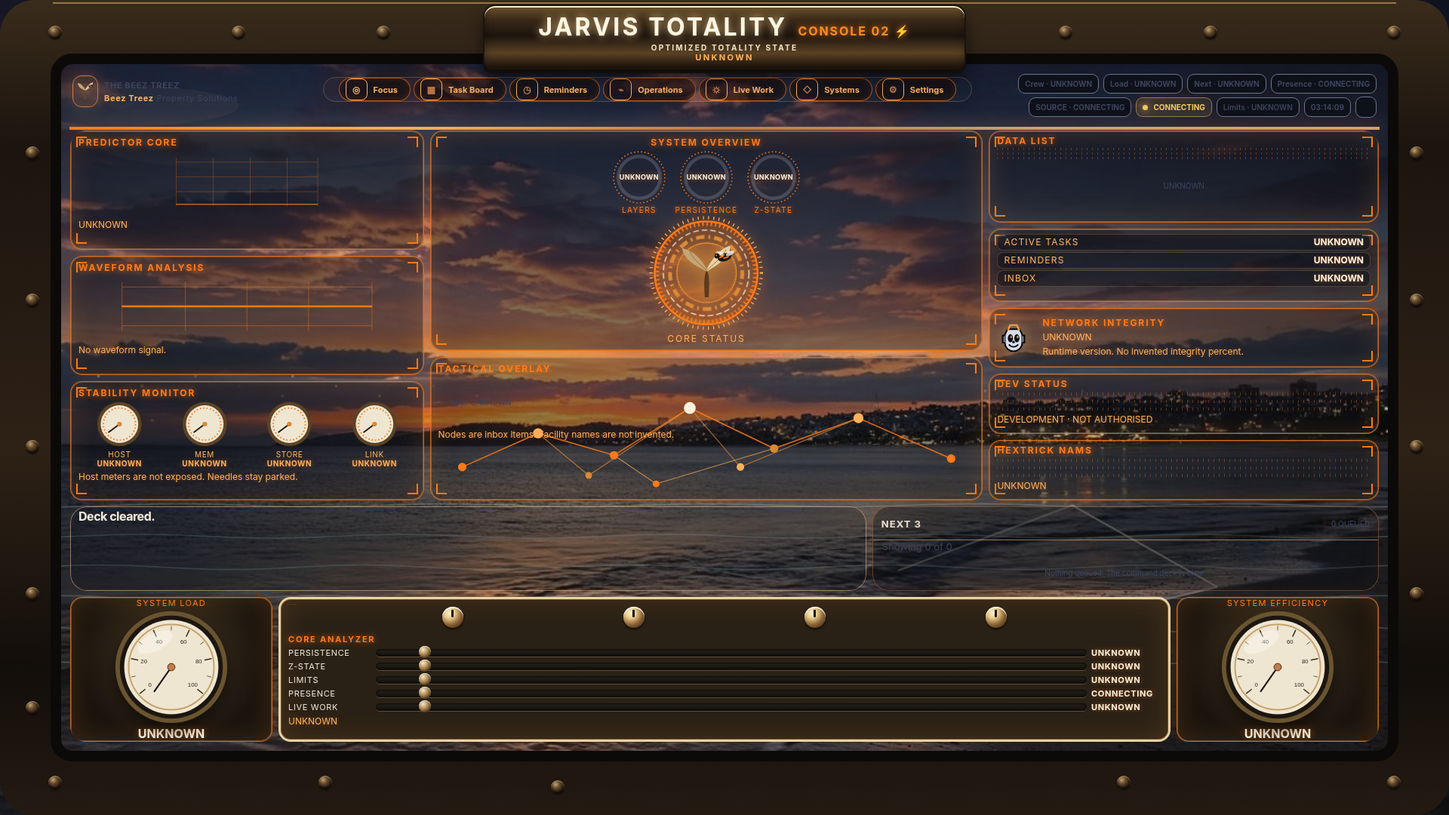
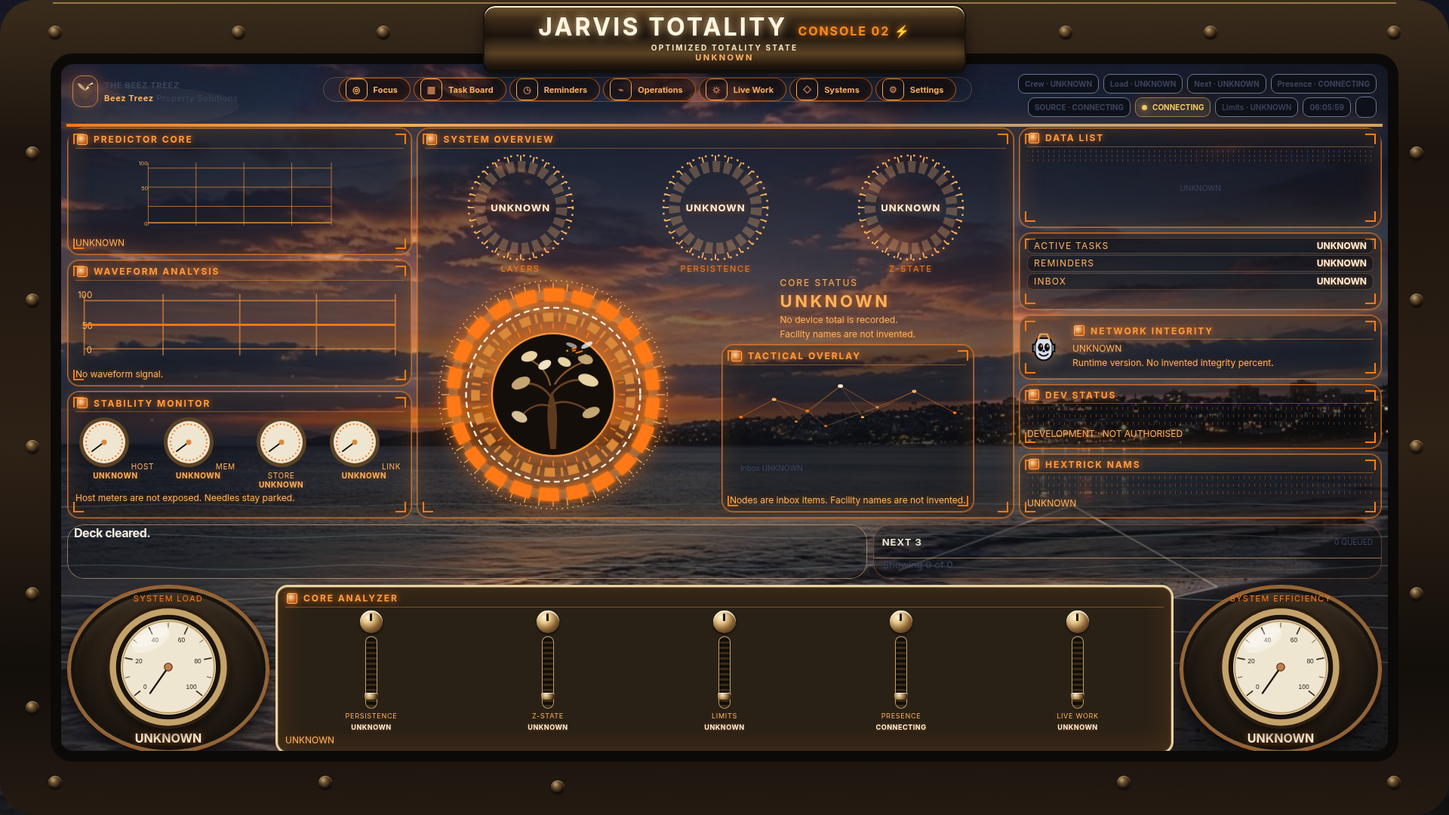
feat(hud): enlarge the Console 02 medallion and analyzer
Make the bee-and-tree core about 312px with thick segmented rings, double the overview dials, and turn the Core Analyzer into five parked vertical channels. Readings stay UNKNOWN. The bronze bezel and 1920 labels stay clear.

Changed region(s): [[0.0312, 0.1222, 0.9688, 0.9472]]

diff --git a/typescript/src/mcp/dashboard-v1.html b/typescript/src/mcp/dashboard-v1.html
@@ -857,6 +857,71 @@
         .tac-chart { top: 22px; bottom: 28px; left: 8px; right: 8px; }
         .tac-plate > p { margin: 0; }
       }
+
+      @media (min-width: 1400px) {
+        .shell { padding: 164px 88px 80px; }
+        .console-deck {
+          grid-template-areas: "left center right";
+          grid-template-columns: minmax(210px, 0.78fr) minmax(0, 1.35fr) minmax(250px, 0.82fr);
+          grid-template-rows: minmax(0, 1fr);
+          gap: 6px;
+        }
+        .core-row { min-height: 0; align-items: stretch; }
+        .core-side { min-width: 0; min-height: 0; height: 100%; max-height: 100%; display: flex; flex-direction: column; gap: 6px; overflow: hidden; }
+        .core-readout { flex: 0 0 auto; }
+        .core-side .tac-plate { position: relative; flex: 1 1 0; min-height: 0; overflow: hidden; display: flex; flex-direction: column; }
+        .core-side .tac-chart { position: relative; inset: auto; width: 100%; flex: 1 1 0; height: 120px; min-height: 0; }
+        .console-col { gap: 6px; }
+        .overview-plate { display: flex; flex-direction: column; align-items: stretch; justify-content: flex-start; height: 100%; overflow: hidden; }
+        .overview-row { flex: 0 0 auto; width: 100%; margin: 0 0 4px; }
+        .ring-gauge svg { width: 148px; height: 148px; }
+        .ring-gauge b { font-size: 13px; letter-spacing: 0.08em; }
+        .ring-gauge span { font-size: 11px; letter-spacing: 0.16em; }
+        .core-row { flex: 1 1 auto; min-height: 0; display: grid; grid-template-columns: minmax(240px, 340px) minmax(140px, 1fr); gap: 10px; align-items: center; justify-items: center; }
+        .core-stage { width: min(312px, 100%); height: auto; aspect-ratio: 1; max-height: 100%; max-width: 100%; }
+        .core-rings { position: absolute; inset: 0; width: 100%; height: 100%; filter: drop-shadow(0 0 16px rgba(255, 122, 24, 0.75)); }
+        .core-emblem { position: static; width: auto; height: auto; filter: none; }
+        .core-readout { align-self: center; display: grid; gap: 4px; min-width: 0; }
+        .core-readout b { font-size: 22px; letter-spacing: 0.16em; color: #ffb15a; text-shadow: 0 0 12px rgba(255, 122, 24, 0.75); }
+        .core-readout p { margin: 0; }
+        .plate h2, .plate h3 {
+          display: flex; align-items: center; gap: 8px;
+          margin: 0 0 4px; padding: 0 2px 4px;
+          border-bottom: 1px solid rgba(255, 154, 60, 0.4);
+          font-family: Inter, "Liberation Sans", sans-serif;
+          font-stretch: 85%; font-weight: 700; font-variant: normal;
+          font-size: 12px; line-height: 1.1; letter-spacing: 0.16em;
+          text-transform: uppercase; color: #ff9a3c;
+          text-shadow: 0 0 10px rgba(255, 122, 24, 0.9);
+        }
+        .plate h2::before, .analyzer-plate h3::before {
+          content: ""; width: 12px; height: 12px; flex: 0 0 12px;
+          border: 1px solid #ffb15a; border-radius: 2px;
+          background: radial-gradient(circle at 35% 35%, #ffd7a0, #c45a12 70%);
+          box-shadow: 0 0 8px rgba(255, 122, 24, 0.8);
+        }
+        .col-left .plate { display: flex; flex-direction: column; }
+        .col-left .chart { flex: 1 1 auto; width: 100%; height: auto; min-height: 72px; max-height: none; }
+        .dial svg { width: min(72px, 100%); height: auto; }
+        .now-strip, .now-strip .mission-panel, .now-strip .queue-panel { max-height: 72px; }
+        .focus-layout .mission-core { padding: 2px 8px; }
+        .gauge-face {
+          border-radius: 50%;
+          background: radial-gradient(circle at 50% 42%, #5a4630, #120e0a 74%);
+          box-shadow: inset 0 0 0 4px #8a6840, inset 0 0 0 9px #1a120c, inset 0 14px 18px rgba(255, 230, 190, 0.12), 0 12px 16px rgba(0, 0, 0, 0.5);
+        }
+        .gauge-face svg { width: min(168px, 100%); filter: drop-shadow(0 8px 8px rgba(0, 0, 0, 0.6)); }
+        .analyzer-plate { display: flex; flex-direction: column; min-height: 0; }
+        .analyzer { display: grid; grid-template-columns: repeat(5, minmax(0, 1fr)); gap: 6px; align-items: stretch; flex: 1 1 auto; min-height: 0; }
+        .analyzer-row { display: flex; flex-direction: column; align-items: center; justify-content: flex-start; gap: 4px; min-width: 0; }
+        .analyzer-row .knob { width: 30px; height: 30px; }
+        .analyzer-row .knob::after { left: 13px; top: 4px; height: 10px; }
+        .analyzer-row b { font-size: 9px; letter-spacing: 0.06em; text-align: center; }
+        .analyzer-row span { font-size: 9px; letter-spacing: 0.08em; text-align: center; color: #ffb15a; }
+        .analyzer-row .slider { width: 16px; flex: 1 1 auto; height: 96px; min-height: 90px; border-radius: 99px; background: repeating-linear-gradient(#3a2c18, #3a2c18 3px, #120e0a 3px, #120e0a 7px); box-shadow: inset 0 0 0 1px #c4a36a, inset 0 2px 4px rgba(0,0,0,0.7); }
+        .analyzer-row .slider::after { left: 50%; top: auto; bottom: 12%; width: 18px; height: 9px; border-radius: 3px; transform: translateX(-50%); }
+        .tac-chart { top: 28px; bottom: 26px; }
+      }
     </style>
   </head>
   <body data-backdrop-severity="UNKNOWN" data-console-view="focus"><!-- JARVIS // OPERATOR CONSOLE · LANDSCAPE COMMAND CENTRE -->
@@ -971,12 +1036,12 @@
                   <div class="console-col col-left">
                     <section class="plate">
                       <h2>PREDICTOR CORE</h2>
-                      <svg class="chart" viewBox="0 0 300 120" role="img" aria-label="Predictor Core"><g class="chart-grid" stroke="rgba(255,122,24,0.4)" stroke-width="1" fill="none"><path d="M16 24 H284 M16 52 H284 M16 80 H284 M16 104 H284"/><path d="M16 16 V108 M86 16 V108 M156 16 V108 M226 16 V108 M284 16 V108"/></g><path d="M16 104 H284" stroke="#d98938" stroke-width="1.6" fill="none"/><polyline id="predictor-line" points="" fill="none" stroke="#ff7a18" stroke-width="2.4"/></svg>
+                      <svg class="chart" viewBox="0 0 300 120" role="img" aria-label="Predictor Core"><g class="chart-grid" stroke="rgba(255,154,60,0.62)" stroke-width="1.15" fill="none"><path d="M16 24 H284 M16 52 H284 M16 80 H284 M16 104 H284"/><path d="M16 16 V108 M86 16 V108 M156 16 V108 M226 16 V108 M284 16 V108"/></g><g fill="#ffb15a" font-size="8" font-family="Inter,sans-serif"><text x="2" y="20">100</text><text x="6" y="56">50</text><text x="10" y="108">0</text></g><path d="M16 104 H284" stroke="#d98938" stroke-width="1.6" fill="none"/><polyline id="predictor-line" points="" fill="none" stroke="#ff7a18" stroke-width="2.4"/></svg>
                       <p id="predictor-state">UNKNOWN</p>
                     </section>
                     <section class="plate">
                       <h2>WAVEFORM ANALYSIS</h2>
-                      <svg class="chart" viewBox="0 0 300 72" aria-hidden="true"><g class="chart-grid" stroke="rgba(255,122,24,0.35)" stroke-width="1" fill="none"><path d="M8 14 H292 M8 36 H292 M8 58 H292"/><path d="M8 8 V64 M80 8 V64 M150 8 V64 M220 8 V64 M292 8 V64"/></g><path d="M8 36 H292" stroke="#ff7a18" fill="none" stroke-width="2"/></svg>
+                      <svg class="chart" viewBox="0 0 300 72" aria-hidden="true"><g class="chart-grid" stroke="rgba(255,154,60,0.62)" stroke-width="1.15" fill="none"><path d="M8 14 H292 M8 36 H292 M8 58 H292"/><path d="M8 8 V64 M80 8 V64 M150 8 V64 M220 8 V64 M292 8 V64"/></g><g fill="#ffb15a" font-size="8" font-family="Inter,sans-serif"><text x="2" y="12">100</text><text x="6" y="40">50</text><text x="10" y="62">0</text></g><path d="M8 36 H292" stroke="#ff7a18" fill="none" stroke-width="2"/></svg>
                       <p id="waveform-state">No waveform signal.</p>
                     </section>
                     <section class="plate">
@@ -994,34 +1059,63 @@
                     <section class="plate overview-plate">
                       <h2>SYSTEM OVERVIEW</h2>
                       <div class="overview-row">
-                        <div class="ring-gauge"><svg viewBox="0 0 96 96" aria-hidden="true"><circle cx="48" cy="48" r="44" fill="none" stroke="#ff7a18" stroke-width="2" stroke-dasharray="2 4"/><circle cx="48" cy="48" r="36" fill="none" stroke="rgba(255,255,255,0.16)" stroke-width="6"/><circle id="ring-layers-arc" cx="48" cy="48" r="36" fill="none" stroke="#ff7a18" stroke-width="6" pathLength="100" stroke-dasharray="0 100" transform="rotate(-90 48 48)"/></svg><b id="ring-layers">UNKNOWN</b><span>LAYERS</span></div>
-                        <div class="ring-gauge"><svg viewBox="0 0 96 96" aria-hidden="true"><circle cx="48" cy="48" r="44" fill="none" stroke="#ff7a18" stroke-width="2" stroke-dasharray="2 4"/><circle cx="48" cy="48" r="36" fill="none" stroke="rgba(255,255,255,0.16)" stroke-width="6"/></svg><b id="ring-persistence">UNKNOWN</b><span>PERSISTENCE</span></div>
-                        <div class="ring-gauge"><svg viewBox="0 0 96 96" aria-hidden="true"><circle cx="48" cy="48" r="44" fill="none" stroke="#ff7a18" stroke-width="2" stroke-dasharray="2 4"/><circle cx="48" cy="48" r="36" fill="none" stroke="rgba(255,255,255,0.16)" stroke-width="6"/></svg><b id="ring-z">UNKNOWN</b><span>Z-STATE</span></div>
+                        <div class="ring-gauge"><svg viewBox="0 0 120 120" aria-hidden="true"><circle cx="60" cy="60" r="56" fill="none" stroke="#ffb15a" stroke-width="2" stroke-dasharray="2 5"/><line x1="60.0" y1="10.0" x2="60.0" y2="4.0" stroke="#ffb15a" stroke-width="1.4"/><line x1="72.9" y1="11.7" x2="74.5" y2="5.9" stroke="#ffb15a" stroke-width="1.4"/><line x1="85.0" y1="16.7" x2="88.0" y2="11.5" stroke="#ffb15a" stroke-width="1.4"/><line x1="95.4" y1="24.6" x2="99.6" y2="20.4" stroke="#ffb15a" stroke-width="1.4"/><line x1="103.3" y1="35.0" x2="108.5" y2="32.0" stroke="#ffb15a" stroke-width="1.4"/><line x1="108.3" y1="47.1" x2="114.1" y2="45.5" stroke="#ffb15a" stroke-width="1.4"/><line x1="110.0" y1="60.0" x2="116.0" y2="60.0" stroke="#ffb15a" stroke-width="1.4"/><line x1="108.3" y1="72.9" x2="114.1" y2="74.5" stroke="#ffb15a" stroke-width="1.4"/><line x1="103.3" y1="85.0" x2="108.5" y2="88.0" stroke="#ffb15a" stroke-width="1.4"/><line x1="95.4" y1="95.4" x2="99.6" y2="99.6" stroke="#ffb15a" stroke-width="1.4"/><line x1="85.0" y1="103.3" x2="88.0" y2="108.5" stroke="#ffb15a" stroke-width="1.4"/><line x1="72.9" y1="108.3" x2="74.5" y2="114.1" stroke="#ffb15a" stroke-width="1.4"/><line x1="60.0" y1="110.0" x2="60.0" y2="116.0" stroke="#ffb15a" stroke-width="1.4"/><line x1="47.1" y1="108.3" x2="45.5" y2="114.1" stroke="#ffb15a" stroke-width="1.4"/><line x1="35.0" y1="103.3" x2="32.0" y2="108.5" stroke="#ffb15a" stroke-width="1.4"/><line x1="24.6" y1="95.4" x2="20.4" y2="99.6" stroke="#ffb15a" stroke-width="1.4"/><line x1="16.7" y1="85.0" x2="11.5" y2="88.0" stroke="#ffb15a" stroke-width="1.4"/><line x1="11.7" y1="72.9" x2="5.9" y2="74.5" stroke="#ffb15a" stroke-width="1.4"/><line x1="10.0" y1="60.0" x2="4.0" y2="60.0" stroke="#ffb15a" stroke-width="1.4"/><line x1="11.7" y1="47.1" x2="5.9" y2="45.5" stroke="#ffb15a" stroke-width="1.4"/><line x1="16.7" y1="35.0" x2="11.5" y2="32.0" stroke="#ffb15a" stroke-width="1.4"/><line x1="24.6" y1="24.6" x2="20.4" y2="20.4" stroke="#ffb15a" stroke-width="1.4"/><line x1="35.0" y1="16.7" x2="32.0" y2="11.5" stroke="#ffb15a" stroke-width="1.4"/><line x1="47.1" y1="11.7" x2="45.5" y2="5.9" stroke="#ffb15a" stroke-width="1.4"/><circle cx="60" cy="60" r="44" fill="none" stroke="rgba(255,186,120,0.28)" stroke-width="12" stroke-dasharray="8 4"/><circle id="ring-layers-arc" cx="60" cy="60" r="44" fill="none" stroke="#ff7a18" stroke-width="12" pathLength="100" stroke-dasharray="0 100" transform="rotate(-90 60 60)"/></svg><b id="ring-layers">UNKNOWN</b><span>LAYERS</span></div>
+                        <div class="ring-gauge"><svg viewBox="0 0 120 120" aria-hidden="true"><circle cx="60" cy="60" r="56" fill="none" stroke="#ffb15a" stroke-width="2" stroke-dasharray="2 5"/><line x1="60.0" y1="10.0" x2="60.0" y2="4.0" stroke="#ffb15a" stroke-width="1.4"/><line x1="72.9" y1="11.7" x2="74.5" y2="5.9" stroke="#ffb15a" stroke-width="1.4"/><line x1="85.0" y1="16.7" x2="88.0" y2="11.5" stroke="#ffb15a" stroke-width="1.4"/><line x1="95.4" y1="24.6" x2="99.6" y2="20.4" stroke="#ffb15a" stroke-width="1.4"/><line x1="103.3" y1="35.0" x2="108.5" y2="32.0" stroke="#ffb15a" stroke-width="1.4"/><line x1="108.3" y1="47.1" x2="114.1" y2="45.5" stroke="#ffb15a" stroke-width="1.4"/><line x1="110.0" y1="60.0" x2="116.0" y2="60.0" stroke="#ffb15a" stroke-width="1.4"/><line x1="108.3" y1="72.9" x2="114.1" y2="74.5" stroke="#ffb15a" stroke-width="1.4"/><line x1="103.3" y1="85.0" x2="108.5" y2="88.0" stroke="#ffb15a" stroke-width="1.4"/><line x1="95.4" y1="95.4" x2="99.6" y2="99.6" stroke="#ffb15a" stroke-width="1.4"/><line x1="85.0" y1="103.3" x2="88.0" y2="108.5" stroke="#ffb15a" stroke-width="1.4"/><line x1="72.9" y1="108.3" x2="74.5" y2="114.1" stroke="#ffb15a" stroke-width="1.4"/><line x1="60.0" y1="110.0" x2="60.0" y2="116.0" stroke="#ffb15a" stroke-width="1.4"/><line x1="47.1" y1="108.3" x2="45.5" y2="114.1" stroke="#ffb15a" stroke-width="1.4"/><line x1="35.0" y1="103.3" x2="32.0" y2="108.5" stroke="#ffb15a" stroke-width="1.4"/><line x1="24.6" y1="95.4" x2="20.4" y2="99.6" stroke="#ffb15a" stroke-width="1.4"/><line x1="16.7" y1="85.0" x2="11.5" y2="88.0" stroke="#ffb15a" stroke-width="1.4"/><line x1="11.7" y1="72.9" x2="5.9" y2="74.5" stroke="#ffb15a" stroke-width="1.4"/><line x1="10.0" y1="60.0" x2="4.0" y2="60.0" stroke="#ffb15a" stroke-width="1.4"/><line x1="11.7" y1="47.1" x2="5.9" y2="45.5" stroke="#ffb15a" stroke-width="1.4"/><line x1="16.7" y1="35.0" x2="11.5" y2="32.0" stroke="#ffb15a" stroke-width="1.4"/><line x1="24.6" y1="24.6" x2="20.4" y2="20.4" stroke="#ffb15a" stroke-width="1.4"/><line x1="35.0" y1="16.7" x2="32.0" y2="11.5" stroke="#ffb15a" stroke-width="1.4"/><line x1="47.1" y1="11.7" x2="45.5" y2="5.9" stroke="#ffb15a" stroke-width="1.4"/><circle cx="60" cy="60" r="44" fill="none" stroke="rgba(255,186,120,0.28)" stroke-width="12" stroke-dasharray="8 4"/></svg><b id="ring-persistence">UNKNOWN</b><span>PERSISTENCE</span></div>
+                        <div class="ring-gauge"><svg viewBox="0 0 120 120" aria-hidden="true"><circle cx="60" cy="60" r="56" fill="none" stroke="#ffb15a" stroke-width="2" stroke-dasharray="2 5"/><line x1="60.0" y1="10.0" x2="60.0" y2="4.0" stroke="#ffb15a" stroke-width="1.4"/><line x1="72.9" y1="11.7" x2="74.5" y2="5.9" stroke="#ffb15a" stroke-width="1.4"/><line x1="85.0" y1="16.7" x2="88.0" y2="11.5" stroke="#ffb15a" stroke-width="1.4"/><line x1="95.4" y1="24.6" x2="99.6" y2="20.4" stroke="#ffb15a" stroke-width="1.4"/><line x1="103.3" y1="35.0" x2="108.5" y2="32.0" stroke="#ffb15a" stroke-width="1.4"/><line x1="108.3" y1="47.1" x2="114.1" y2="45.5" stroke="#ffb15a" stroke-width="1.4"/><line x1="110.0" y1="60.0" x2="116.0" y2="60.0" stroke="#ffb15a" stroke-width="1.4"/><line x1="108.3" y1="72.9" x2="114.1" y2="74.5" stroke="#ffb15a" stroke-width="1.4"/><line x1="103.3" y1="85.0" x2="108.5" y2="88.0" stroke="#ffb15a" stroke-width="1.4"/><line x1="95.4" y1="95.4" x2="99.6" y2="99.6" stroke="#ffb15a" stroke-width="1.4"/><line x1="85.0" y1="103.3" x2="88.0" y2="108.5" stroke="#ffb15a" stroke-width="1.4"/><line x1="72.9" y1="108.3" x2="74.5" y2="114.1" stroke="#ffb15a" stroke-width="1.4"/><line x1="60.0" y1="110.0" x2="60.0" y2="116.0" stroke="#ffb15a" stroke-width="1.4"/><line x1="47.1" y1="108.3" x2="45.5" y2="114.1" stroke="#ffb15a" stroke-width="1.4"/><line x1="35.0" y1="103.3" x2="32.0" y2="108.5" stroke="#ffb15a" stroke-width="1.4"/><line x1="24.6" y1="95.4" x2="20.4" y2="99.6" stroke="#ffb15a" stroke-width="1.4"/><line x1="16.7" y1="85.0" x2="11.5" y2="88.0" stroke="#ffb15a" stroke-width="1.4"/><line x1="11.7" y1="72.9" x2="5.9" y2="74.5" stroke="#ffb15a" stroke-width="1.4"/><line x1="10.0" y1="60.0" x2="4.0" y2="60.0" stroke="#ffb15a" stroke-width="1.4"/><line x1="11.7" y1="47.1" x2="5.9" y2="45.5" stroke="#ffb15a" stroke-width="1.4"/><line x1="16.7" y1="35.0" x2="11.5" y2="32.0" stroke="#ffb15a" stroke-width="1.4"/><line x1="24.6" y1="24.6" x2="20.4" y2="20.4" stroke="#ffb15a" stroke-width="1.4"/><line x1="35.0" y1="16.7" x2="32.0" y2="11.5" stroke="#ffb15a" stroke-width="1.4"/><line x1="47.1" y1="11.7" x2="45.5" y2="5.9" stroke="#ffb15a" stroke-width="1.4"/><circle cx="60" cy="60" r="44" fill="none" stroke="rgba(255,186,120,0.28)" stroke-width="12" stroke-dasharray="8 4"/></svg><b id="ring-z">UNKNOWN</b><span>Z-STATE</span></div>
                       </div>
-                      <div class="core-stage">
-                        <svg class="core-rings" viewBox="0 0 240 240" aria-hidden="true">
-                          <circle cx="120" cy="120" r="116" fill="none" stroke="#ffb15a" stroke-width="7" stroke-dasharray="2 9"/><circle cx="120" cy="120" r="108" fill="rgba(255,122,24,0.14)" stroke="#ff7a18" stroke-width="4"/>
-                          <circle class="spin" cx="120" cy="120" r="104" fill="none" stroke="#ff7a18" stroke-width="10" stroke-dasharray="3 6"/>
-                          <circle cx="120" cy="120" r="90" fill="none" stroke="#fff6e4" stroke-width="2" stroke-dasharray="12 6"/>
-                          <circle class="spin reverse" cx="120" cy="120" r="76" fill="none" stroke="#d98938" stroke-width="8" stroke-dasharray="18 8 4 8"/>
-                          <circle cx="120" cy="120" r="62" fill="none" stroke="#ff7a18" stroke-width="3" stroke-dasharray="2 4"/>
-                        </svg>
-                        <svg class="core-emblem" viewBox="0 0 120 120" aria-hidden="true">
-                          <circle cx="60" cy="60" r="46" fill="rgba(255,140,40,0.16)" stroke="#d98938" stroke-width="1.5"/>
-                          <path d="M57 98 C56 78 55 68 60 54 C65 68 64 78 63 98 Z" fill="#5c3a1e"/>
-                          <path d="M60 58 C44 50 24 40 22 22 C40 26 52 40 60 54 Z" fill="#c4a574"/>
-                          <path d="M60 58 C76 48 98 36 96 18 C78 24 68 40 60 54 Z" fill="#e7d3a4"/>
-                          <path d="M60 56 C48 46 36 36 34 26" fill="none" stroke="#8a6840" stroke-width="1"/>
-                          <path d="M60 56 C74 44 86 34 90 24" fill="none" stroke="#8a6840" stroke-width="1"/>
-                          <ellipse cx="88" cy="36" rx="11" ry="6" fill="#1a140e" transform="rotate(-18 88 36)"/>
-                          <path d="M80 34 h6 M86 37 h7 M83 32 h5" stroke="#ff7a18" stroke-width="2" stroke-linecap="round" transform="rotate(-18 88 36)"/>
-                          <ellipse cx="96" cy="30" rx="7" ry="3.2" fill="rgba(255,255,255,0.72)" transform="rotate(-30 96 30)"/>
-                          <ellipse cx="80" cy="30" rx="6" ry="2.8" fill="rgba(255,255,255,0.55)" transform="rotate(20 80 30)"/>
-                          <circle cx="76" cy="34" r="4" fill="#1a140e"/>
-                          <circle cx="75" cy="33" r="1" fill="#ffb15a"/>
-                        </svg>
+                      <div class="core-row">
+                        <div class="core-stage">
+                        <svg class="core-rings" viewBox="0 0 400 400" aria-hidden="true">
+  <defs><filter id="core-glow" x="-30%" y="-30%" width="160%" height="160%"><feGaussianBlur stdDeviation="4" result="b"/><feMerge><feMergeNode in="b"/><feMergeNode in="SourceGraphic"/></feMerge></filter></defs>
+  <circle cx="200" cy="200" r="168" fill="rgba(255,122,24,0.08)"/>
+  <circle cx="200" cy="200" r="194" fill="none" stroke="#ffb15a" stroke-width="2" stroke-dasharray="2 7"/>
+  <line x1="200.0" y1="24.0" x2="200.0" y2="10.0" stroke="#ffb15a" stroke-width="1.6"/><line x1="223.0" y1="25.5" x2="224.8" y2="11.6" stroke="#ffb15a" stroke-width="1.6"/><line x1="245.6" y1="30.0" x2="249.2" y2="16.5" stroke="#ffb15a" stroke-width="1.6"/><line x1="267.4" y1="37.4" x2="272.7" y2="24.5" stroke="#ffb15a" stroke-width="1.6"/><line x1="288.0" y1="47.6" x2="295.0" y2="35.5" stroke="#ffb15a" stroke-width="1.6"/><line x1="307.1" y1="60.4" x2="315.7" y2="49.3" stroke="#ffb15a" stroke-width="1.6"/><line x1="324.5" y1="75.5" x2="334.4" y2="65.6" stroke="#ffb15a" stroke-width="1.6"/><line x1="339.6" y1="92.9" x2="350.7" y2="84.3" stroke="#ffb15a" stroke-width="1.6"/><line x1="352.4" y1="112.0" x2="364.5" y2="105.0" stroke="#ffb15a" stroke-width="1.6"/><line x1="362.6" y1="132.6" x2="375.5" y2="127.3" stroke="#ffb15a" stroke-width="1.6"/><line x1="370.0" y1="154.4" x2="383.5" y2="150.8" stroke="#ffb15a" stroke-width="1.6"/><line x1="374.5" y1="177.0" x2="388.4" y2="175.2" stroke="#ffb15a" stroke-width="1.6"/><line x1="376.0" y1="200.0" x2="390.0" y2="200.0" stroke="#ffb15a" stroke-width="1.6"/><line x1="374.5" y1="223.0" x2="388.4" y2="224.8" stroke="#ffb15a" stroke-width="1.6"/><line x1="370.0" y1="245.6" x2="383.5" y2="249.2" stroke="#ffb15a" stroke-width="1.6"/><line x1="362.6" y1="267.4" x2="375.5" y2="272.7" stroke="#ffb15a" stroke-width="1.6"/><line x1="352.4" y1="288.0" x2="364.5" y2="295.0" stroke="#ffb15a" stroke-width="1.6"/><line x1="339.6" y1="307.1" x2="350.7" y2="315.7" stroke="#ffb15a" stroke-width="1.6"/><line x1="324.5" y1="324.5" x2="334.4" y2="334.4" stroke="#ffb15a" stroke-width="1.6"/><line x1="307.1" y1="339.6" x2="315.7" y2="350.7" stroke="#ffb15a" stroke-width="1.6"/><line x1="288.0" y1="352.4" x2="295.0" y2="364.5" stroke="#ffb15a" stroke-width="1.6"/><line x1="267.4" y1="362.6" x2="272.7" y2="375.5" stroke="#ffb15a" stroke-width="1.6"/><line x1="245.6" y1="370.0" x2="249.2" y2="383.5" stroke="#ffb15a" stroke-width="1.6"/><line x1="223.0" y1="374.5" x2="224.8" y2="388.4" stroke="#ffb15a" stroke-width="1.6"/><line x1="200.0" y1="376.0" x2="200.0" y2="390.0" stroke="#ffb15a" stroke-width="1.6"/><line x1="177.0" y1="374.5" x2="175.2" y2="388.4" stroke="#ffb15a" stroke-width="1.6"/><line x1="154.4" y1="370.0" x2="150.8" y2="383.5" stroke="#ffb15a" stroke-width="1.6"/><line x1="132.6" y1="362.6" x2="127.3" y2="375.5" stroke="#ffb15a" stroke-width="1.6"/><line x1="112.0" y1="352.4" x2="105.0" y2="364.5" stroke="#ffb15a" stroke-width="1.6"/><line x1="92.9" y1="339.6" x2="84.3" y2="350.7" stroke="#ffb15a" stroke-width="1.6"/><line x1="75.5" y1="324.5" x2="65.6" y2="334.4" stroke="#ffb15a" stroke-width="1.6"/><line x1="60.4" y1="307.1" x2="49.3" y2="315.7" stroke="#ffb15a" stroke-width="1.6"/><line x1="47.6" y1="288.0" x2="35.5" y2="295.0" stroke="#ffb15a" stroke-width="1.6"/><line x1="37.4" y1="267.4" x2="24.5" y2="272.7" stroke="#ffb15a" stroke-width="1.6"/><line x1="30.0" y1="245.6" x2="16.5" y2="249.2" stroke="#ffb15a" stroke-width="1.6"/><line x1="25.5" y1="223.0" x2="11.6" y2="224.8" stroke="#ffb15a" stroke-width="1.6"/><line x1="24.0" y1="200.0" x2="10.0" y2="200.0" stroke="#ffb15a" stroke-width="1.6"/><line x1="25.5" y1="177.0" x2="11.6" y2="175.2" stroke="#ffb15a" stroke-width="1.6"/><line x1="30.0" y1="154.4" x2="16.5" y2="150.8" stroke="#ffb15a" stroke-width="1.6"/><line x1="37.4" y1="132.6" x2="24.5" y2="127.3" stroke="#ffb15a" stroke-width="1.6"/><line x1="47.6" y1="112.0" x2="35.5" y2="105.0" stroke="#ffb15a" stroke-width="1.6"/><line x1="60.4" y1="92.9" x2="49.3" y2="84.3" stroke="#ffb15a" stroke-width="1.6"/><line x1="75.5" y1="75.5" x2="65.6" y2="65.6" stroke="#ffb15a" stroke-width="1.6"/><line x1="92.9" y1="60.4" x2="84.3" y2="49.3" stroke="#ffb15a" stroke-width="1.6"/><line x1="112.0" y1="47.6" x2="105.0" y2="35.5" stroke="#ffb15a" stroke-width="1.6"/><line x1="132.6" y1="37.4" x2="127.3" y2="24.5" stroke="#ffb15a" stroke-width="1.6"/><line x1="154.4" y1="30.0" x2="150.8" y2="16.5" stroke="#ffb15a" stroke-width="1.6"/><line x1="177.0" y1="25.5" x2="175.2" y2="11.6" stroke="#ffb15a" stroke-width="1.6"/>
+  <circle cx="200" cy="200" r="170" fill="none" stroke="rgba(255,186,120,0.25)" stroke-width="16"/>
+  <circle class="spin" cx="200" cy="200" r="170" fill="none" stroke="#ff7a18" stroke-width="22" stroke-dasharray="34 14" filter="url(#core-glow)"/>
+  <circle cx="200" cy="200" r="148" fill="none" stroke="#fff1dc" stroke-width="3" stroke-dasharray="10 7"/>
+  <circle class="spin reverse" cx="200" cy="200" r="132" fill="none" stroke="#d98938" stroke-width="15" stroke-dasharray="18 8 4 10"/>
+  <line x1="200.0" y1="88.0" x2="200.0" y2="78.0" stroke="#ff7a18" stroke-width="2"/><line x1="219.4" y1="89.7" x2="221.2" y2="79.9" stroke="#ff7a18" stroke-width="2"/><line x1="238.3" y1="94.8" x2="241.7" y2="85.4" stroke="#ff7a18" stroke-width="2"/><line x1="256.0" y1="103.0" x2="261.0" y2="94.3" stroke="#ff7a18" stroke-width="2"/><line x1="272.0" y1="114.2" x2="278.4" y2="106.5" stroke="#ff7a18" stroke-width="2"/><line x1="285.8" y1="128.0" x2="293.5" y2="121.6" stroke="#ff7a18" stroke-width="2"/><line x1="297.0" y1="144.0" x2="305.7" y2="139.0" stroke="#ff7a18" stroke-width="2"/><line x1="305.2" y1="161.7" x2="314.6" y2="158.3" stroke="#ff7a18" stroke-width="2"/><line x1="310.3" y1="180.6" x2="320.1" y2="178.8" stroke="#ff7a18" stroke-width="2"/><line x1="312.0" y1="200.0" x2="322.0" y2="200.0" stroke="#ff7a18" stroke-width="2"/><line x1="310.3" y1="219.4" x2="320.1" y2="221.2" stroke="#ff7a18" stroke-width="2"/><line x1="305.2" y1="238.3" x2="314.6" y2="241.7" stroke="#ff7a18" stroke-width="2"/><line x1="297.0" y1="256.0" x2="305.7" y2="261.0" stroke="#ff7a18" stroke-width="2"/><line x1="285.8" y1="272.0" x2="293.5" y2="278.4" stroke="#ff7a18" stroke-width="2"/><line x1="272.0" y1="285.8" x2="278.4" y2="293.5" stroke="#ff7a18" stroke-width="2"/><line x1="256.0" y1="297.0" x2="261.0" y2="305.7" stroke="#ff7a18" stroke-width="2"/><line x1="238.3" y1="305.2" x2="241.7" y2="314.6" stroke="#ff7a18" stroke-width="2"/><line x1="219.4" y1="310.3" x2="221.2" y2="320.1" stroke="#ff7a18" stroke-width="2"/><line x1="200.0" y1="312.0" x2="200.0" y2="322.0" stroke="#ff7a18" stroke-width="2"/><line x1="180.6" y1="310.3" x2="178.8" y2="320.1" stroke="#ff7a18" stroke-width="2"/><line x1="161.7" y1="305.2" x2="158.3" y2="314.6" stroke="#ff7a18" stroke-width="2"/><line x1="144.0" y1="297.0" x2="139.0" y2="305.7" stroke="#ff7a18" stroke-width="2"/><line x1="128.0" y1="285.8" x2="121.6" y2="293.5" stroke="#ff7a18" stroke-width="2"/><line x1="114.2" y1="272.0" x2="106.5" y2="278.4" stroke="#ff7a18" stroke-width="2"/><line x1="103.0" y1="256.0" x2="94.3" y2="261.0" stroke="#ff7a18" stroke-width="2"/><line x1="94.8" y1="238.3" x2="85.4" y2="241.7" stroke="#ff7a18" stroke-width="2"/><line x1="89.7" y1="219.4" x2="79.9" y2="221.2" stroke="#ff7a18" stroke-width="2"/><line x1="88.0" y1="200.0" x2="78.0" y2="200.0" stroke="#ff7a18" stroke-width="2"/><line x1="89.7" y1="180.6" x2="79.9" y2="178.8" stroke="#ff7a18" stroke-width="2"/><line x1="94.8" y1="161.7" x2="85.4" y2="158.3" stroke="#ff7a18" stroke-width="2"/><line x1="103.0" y1="144.0" x2="94.3" y2="139.0" stroke="#ff7a18" stroke-width="2"/><line x1="114.2" y1="128.0" x2="106.5" y2="121.6" stroke="#ff7a18" stroke-width="2"/><line x1="128.0" y1="114.2" x2="121.6" y2="106.5" stroke="#ff7a18" stroke-width="2"/><line x1="144.0" y1="103.0" x2="139.0" y2="94.3" stroke="#ff7a18" stroke-width="2"/><line x1="161.7" y1="94.8" x2="158.3" y2="85.4" stroke="#ff7a18" stroke-width="2"/><line x1="180.6" y1="89.7" x2="178.8" y2="79.9" stroke="#ff7a18" stroke-width="2"/>
+  <circle cx="200" cy="200" r="104" fill="#140e0a" stroke="#ff9a3c" stroke-width="3"/>
+  <svg class="core-emblem" x="96" y="92" width="208" height="210" viewBox="0 0 164 176">
+    <path d="M78 168 C74 132 70 108 80 86 C90 108 88 132 86 168 Z" fill="#5c3a1e"/>
+    <path d="M80 96 C70 78 48 70 36 78" fill="none" stroke="#6b4424" stroke-width="3"/>
+    <path d="M80 90 C92 72 118 64 132 74" fill="none" stroke="#6b4424" stroke-width="3"/>
+    <path d="M80 108 C64 100 46 108 34 124" fill="none" stroke="#6b4424" stroke-width="2.5"/>
+    <path d="M82 104 C98 96 122 104 136 118" fill="none" stroke="#6b4424" stroke-width="2.5"/>
+    <path d="M78 78 C74 58 60 46 48 40" fill="none" stroke="#8a5a30" stroke-width="2.4"/>
+    <path d="M84 76 C96 56 118 46 132 42" fill="none" stroke="#8a5a30" stroke-width="2.4"/>
+    <ellipse cx="36" cy="74" rx="14" ry="8" fill="#c4a574" transform="rotate(-24 36 74)"/>
+    <ellipse cx="48" cy="36" rx="12" ry="7" fill="#e7d3a4" transform="rotate(-18 48 36)"/>
+    <ellipse cx="132" cy="70" rx="15" ry="8" fill="#e7d3a4" transform="rotate(20 132 70)"/>
+    <ellipse cx="128" cy="40" rx="11" ry="7" fill="#c4a574" transform="rotate(16 128 40)"/>
+    <ellipse cx="34" cy="122" rx="12" ry="7" fill="#d7c09a" transform="rotate(28 34 122)"/>
+    <ellipse cx="136" cy="116" rx="13" ry="7" fill="#c4a574" transform="rotate(-22 136 116)"/>
+    <ellipse cx="70" cy="48" rx="10" ry="6" fill="#f0e2c4" transform="rotate(-30 70 48)"/>
+    <ellipse cx="98" cy="44" rx="10" ry="6" fill="#e7d3a4" transform="rotate(24 98 44)"/>
+    <ellipse cx="118" cy="28" rx="16" ry="8" fill="#1a140e" transform="rotate(-16 118 28)"/>
+    <path d="M106 26 h8 M114 30 h9 M110 23 h6" stroke="#ff7a18" stroke-width="2" stroke-linecap="round" transform="rotate(-16 118 28)"/>
+    <ellipse cx="130" cy="20" rx="9" ry="3.4" fill="rgba(255,255,255,0.75)" transform="rotate(-28 130 20)"/>
+    <ellipse cx="108" cy="20" rx="8" ry="3" fill="rgba(255,255,255,0.55)" transform="rotate(18 108 20)"/>
+    <circle cx="104" cy="30" r="5.5" fill="#1a140e"/>
+    <circle cx="102" cy="28" r="1.3" fill="#ffb15a"/>
+    <path d="M100 26 q-6 -8 -2 -12" fill="none" stroke="#1a140e" stroke-width="1"/>
+  </svg>
+</svg>
+                        </div>
+                        <div class="core-side">
+                        <div class="core-readout">
+                          <p class="sub-plate core-status-label">CORE STATUS</p>
+                          <b id="core-side-status">UNKNOWN</b>
+                          <p>No device total is recorded.</p>
+                          <p>Facility names are not invented.</p>
+                        </div>
+                        <section class="plate tac-plate">
+                      <h2>TACTICAL OVERLAY</h2>
+                      <svg class="tac-chart" viewBox="0 0 640 280" preserveAspectRatio="none" aria-hidden="true"><path d="M 30 187.0 L 120 119.0 L 210 163.2 L 300 68.0 L 400 149.6 L 500 88.4 L 610 170.0" fill="none" stroke="#ff7a18" stroke-width="1.4" opacity="0.85"/><path d="M 120 119.0 L 180 204.0 L 300 68.0 L 360 187.0 L 500 88.4" fill="none" stroke="#d98938" stroke-width="1.1" opacity="0.7"/><path d="M 210 163.2 L 260 221.0 L 400 149.6" fill="none" stroke="rgba(255,177,90,0.7)" stroke-width="1"/><circle cx="30" cy="187.0" r="5" fill="#ff7a18"/><circle cx="120" cy="119.0" r="6" fill="#ffb15a"/><circle cx="210" cy="163.2" r="5" fill="#ff7a18"/><circle cx="300" cy="68.0" r="7" fill="#fff1dc"/><circle cx="400" cy="149.6" r="5" fill="#d98938"/><circle cx="500" cy="88.4" r="6" fill="#ffb15a"/><circle cx="610" cy="170.0" r="5" fill="#ff7a18"/><circle cx="180" cy="204.0" r="4" fill="#d98938"/><circle cx="260" cy="221.0" r="4" fill="#ff7a18"/><circle cx="360" cy="187.0" r="4.5" fill="#ffb15a"/></svg>
+                      <div class="tac-map" id="tactical-map"></div>
+                      <p>Nodes are inbox items. Facility names are not invented.</p>
+                    </section>
                       </div>
-                      <p class="sub-plate core-status-label">CORE STATUS</p>
                     </section>
                   </div>
                   <div class="console-col col-right">
@@ -1068,12 +1162,7 @@
                     </section>
                   </div>
 
-                    <section class="plate tac-plate col-tac">
-                      <h2>TACTICAL OVERLAY</h2>
-                      <svg class="tac-chart" viewBox="0 0 640 150" preserveAspectRatio="xMidYMid meet" aria-hidden="true"><path d="M30 110 L120 70 L210 96 L300 40 L400 88 L500 52 L610 100" fill="none" stroke="#ff7a18" stroke-width="1.4" opacity="0.85"/><path d="M120 70 L180 120 L300 40 L360 110 L500 52" fill="none" stroke="#d98938" stroke-width="1.1" opacity="0.7"/><path d="M210 96 L260 130 L400 88" fill="none" stroke="rgba(255,177,90,0.7)" stroke-width="1"/><circle cx="30" cy="110" r="5" fill="#ff7a18"/><circle cx="120" cy="70" r="6" fill="#ffb15a"/><circle cx="210" cy="96" r="5" fill="#ff7a18"/><circle cx="300" cy="40" r="7" fill="#fff1dc"/><circle cx="400" cy="88" r="5" fill="#d98938"/><circle cx="500" cy="52" r="6" fill="#ffb15a"/><circle cx="610" cy="100" r="5" fill="#ff7a18"/><circle cx="180" cy="120" r="4" fill="#d98938"/><circle cx="260" cy="130" r="4" fill="#ff7a18"/><circle cx="360" cy="110" r="4.5" fill="#ffb15a"/></svg>
-                      <div class="tac-map" id="tactical-map"></div>
-                      <p>Nodes are inbox items. Facility names are not invented.</p>
-                    </section>
+                    
                 </div>
                 <div class="focus-layout now-strip">
                   <article class="panel mission-panel green" data-hud-panel="now">
@@ -1110,25 +1199,24 @@
                 <div class="console-lower">
                   <section class="plate gauge-face">
                     <span>SYSTEM LOAD</span>
-                    <svg class="analogue" viewBox="0 0 160 160" aria-hidden="true"><circle cx="80" cy="80" r="76" fill="#6a5430"/><circle cx="80" cy="80" r="70" fill="#1c1610"/><circle cx="80" cy="80" r="64" fill="#efe6d2"/><circle cx="80" cy="80" r="58" fill="none" stroke="#c4a36a" stroke-width="2"/><line x1="37.1" y1="116.0" x2="44.8" y2="110.0" stroke="#3a2e1c" stroke-width="1.6"/><line x1="25.7" y1="93.5" x2="31.5" y2="92.1" stroke="#3a2e1c" stroke-width="0.8"/><line x1="25.2" y1="68.4" x2="35.0" y2="70.4" stroke="#3a2e1c" stroke-width="1.6"/><line x1="35.9" y1="45.5" x2="40.6" y2="49.2" stroke="#3a2e1c" stroke-width="0.8"/><line x1="55.5" y1="29.7" x2="59.8" y2="38.7" stroke="#3a2e1c" stroke-width="1.6"/><line x1="80.0" y1="24.0" x2="80.0" y2="30.0" stroke="#3a2e1c" stroke-width="0.8"/><line x1="104.5" y1="29.7" x2="100.2" y2="38.7" stroke="#3a2e1c" stroke-width="1.6"/><line x1="124.1" y1="45.5" x2="119.4" y2="49.2" stroke="#3a2e1c" stroke-width="0.8"/><line x1="134.8" y1="68.4" x2="125.0" y2="70.4" stroke="#3a2e1c" stroke-width="1.6"/><line x1="134.3" y1="93.5" x2="128.5" y2="92.1" stroke="#3a2e1c" stroke-width="0.8"/><line x1="122.9" y1="116.0" x2="115.2" y2="110.0" stroke="#3a2e1c" stroke-width="1.6"/><text x="50.9" y="104.4" text-anchor="middle" dominant-baseline="central" font-size="8" fill="#2c2416" font-family="sans-serif">0</text><text x="42.8" y="72.1" text-anchor="middle" dominant-baseline="central" font-size="8" fill="#2c2416" font-family="sans-serif">20</text><text x="63.3" y="45.8" text-anchor="middle" dominant-baseline="central" font-size="8" fill="#2c2416" font-family="sans-serif">40</text><text x="96.7" y="45.8" text-anchor="middle" dominant-baseline="central" font-size="8" fill="#2c2416" font-family="sans-serif">60</text><text x="117.2" y="72.1" text-anchor="middle" dominant-baseline="central" font-size="8" fill="#2c2416" font-family="sans-serif">80</text><text x="109.1" y="104.4" text-anchor="middle" dominant-baseline="central" font-size="8" fill="#2c2416" font-family="sans-serif">100</text><line x1="80" y1="80" x2="57" y2="113" stroke="#1a140e" stroke-width="2.2" stroke-linecap="round"/><circle cx="80" cy="80" r="5" fill="#c47b4a" stroke="#3a2c18"/><ellipse cx="58" cy="46" rx="26" ry="12" fill="rgba(255,255,255,0.35)" transform="rotate(-28 58 46)"/></svg>
+                    <svg class="analogue" viewBox="0 0 160 160" aria-hidden="true"><circle cx="80" cy="80" r="78" fill="#2a1c10"/><circle cx="80" cy="80" r="74" fill="#c4a36a"/><circle cx="80" cy="80" r="66" fill="#1a120c"/><circle cx="80" cy="80" r="60" fill="#efe6d2"/><ellipse cx="56" cy="40" rx="26" ry="11" fill="rgba(255,255,255,0.34)" transform="rotate(-26 56 40)"/><circle cx="80" cy="80" r="58" fill="none" stroke="#c4a36a" stroke-width="2"/><line x1="37.1" y1="116.0" x2="44.8" y2="110.0" stroke="#3a2e1c" stroke-width="1.6"/><line x1="25.7" y1="93.5" x2="31.5" y2="92.1" stroke="#3a2e1c" stroke-width="0.8"/><line x1="25.2" y1="68.4" x2="35.0" y2="70.4" stroke="#3a2e1c" stroke-width="1.6"/><line x1="35.9" y1="45.5" x2="40.6" y2="49.2" stroke="#3a2e1c" stroke-width="0.8"/><line x1="55.5" y1="29.7" x2="59.8" y2="38.7" stroke="#3a2e1c" stroke-width="1.6"/><line x1="80.0" y1="24.0" x2="80.0" y2="30.0" stroke="#3a2e1c" stroke-width="0.8"/><line x1="104.5" y1="29.7" x2="100.2" y2="38.7" stroke="#3a2e1c" stroke-width="1.6"/><line x1="124.1" y1="45.5" x2="119.4" y2="49.2" stroke="#3a2e1c" stroke-width="0.8"/><line x1="134.8" y1="68.4" x2="125.0" y2="70.4" stroke="#3a2e1c" stroke-width="1.6"/><line x1="134.3" y1="93.5" x2="128.5" y2="92.1" stroke="#3a2e1c" stroke-width="0.8"/><line x1="122.9" y1="116.0" x2="115.2" y2="110.0" stroke="#3a2e1c" stroke-width="1.6"/><text x="50.9" y="104.4" text-anchor="middle" dominant-baseline="central" font-size="8" fill="#2c2416" font-family="sans-serif">0</text><text x="42.8" y="72.1" text-anchor="middle" dominant-baseline="central" font-size="8" fill="#2c2416" font-family="sans-serif">20</text><text x="63.3" y="45.8" text-anchor="middle" dominant-baseline="central" font-size="8" fill="#2c2416" font-family="sans-serif">40</text><text x="96.7" y="45.8" text-anchor="middle" dominant-baseline="central" font-size="8" fill="#2c2416" font-family="sans-serif">60</text><text x="117.2" y="72.1" text-anchor="middle" dominant-baseline="central" font-size="8" fill="#2c2416" font-family="sans-serif">80</text><text x="109.1" y="104.4" text-anchor="middle" dominant-baseline="central" font-size="8" fill="#2c2416" font-family="sans-serif">100</text><line x1="80" y1="80" x2="57" y2="113" stroke="#1a140e" stroke-width="2.2" stroke-linecap="round"/><circle cx="80" cy="80" r="5" fill="#c47b4a" stroke="#3a2c18"/><ellipse cx="58" cy="46" rx="26" ry="12" fill="rgba(255,255,255,0.35)" transform="rotate(-28 58 46)"/></svg>
                     <b id="gauge-load">UNKNOWN</b>
                   </section>
                   <section class="plate analyzer-plate">
-                    <div class="knob-row" aria-hidden="true"><i class="knob"></i><i class="knob"></i><i class="knob"></i><i class="knob"></i></div>
                     <h3>CORE ANALYZER</h3>
                     <div class="analyzer">
-                      <div class="analyzer-row"><span>PERSISTENCE</span><i class="slider"></i><b id="analyzer-persistence">UNKNOWN</b></div>
-                      <div class="analyzer-row"><span>Z-STATE</span><i class="slider"></i><b id="analyzer-z">UNKNOWN</b></div>
-                      <div class="analyzer-row"><span>LIMITS</span><i class="slider"></i><b id="analyzer-limits">UNKNOWN</b></div>
-                      <div class="analyzer-row"><span>PRESENCE</span><i class="slider"></i><b id="analyzer-presence">UNKNOWN</b></div>
-                      <div class="analyzer-row"><span>LIVE WORK</span><i class="slider"></i><b id="analyzer-live">UNKNOWN</b></div>
+                      <div class="analyzer-row"><i class="knob" aria-hidden="true"></i><i class="slider"></i><span>PERSISTENCE</span><b id="analyzer-persistence">UNKNOWN</b></div>
+                      <div class="analyzer-row"><i class="knob" aria-hidden="true"></i><i class="slider"></i><span>Z-STATE</span><b id="analyzer-z">UNKNOWN</b></div>
+                      <div class="analyzer-row"><i class="knob" aria-hidden="true"></i><i class="slider"></i><span>LIMITS</span><b id="analyzer-limits">UNKNOWN</b></div>
+                      <div class="analyzer-row"><i class="knob" aria-hidden="true"></i><i class="slider"></i><span>PRESENCE</span><b id="analyzer-presence">UNKNOWN</b></div>
+                      <div class="analyzer-row"><i class="knob" aria-hidden="true"></i><i class="slider"></i><span>LIVE WORK</span><b id="analyzer-live">UNKNOWN</b></div>
                     </div>
                     <div class="level" aria-hidden="true"><i id="totality-bar"></i></div>
                     <p id="totality-bar-label">UNKNOWN</p>
                   </section>
                   <section class="plate gauge-face">
                     <span>SYSTEM EFFICIENCY</span>
-                    <svg class="analogue" viewBox="0 0 160 160" aria-hidden="true"><circle cx="80" cy="80" r="76" fill="#6a5430"/><circle cx="80" cy="80" r="70" fill="#1c1610"/><circle cx="80" cy="80" r="64" fill="#efe6d2"/><circle cx="80" cy="80" r="58" fill="none" stroke="#c4a36a" stroke-width="2"/><line x1="37.1" y1="116.0" x2="44.8" y2="110.0" stroke="#3a2e1c" stroke-width="1.6"/><line x1="25.7" y1="93.5" x2="31.5" y2="92.1" stroke="#3a2e1c" stroke-width="0.8"/><line x1="25.2" y1="68.4" x2="35.0" y2="70.4" stroke="#3a2e1c" stroke-width="1.6"/><line x1="35.9" y1="45.5" x2="40.6" y2="49.2" stroke="#3a2e1c" stroke-width="0.8"/><line x1="55.5" y1="29.7" x2="59.8" y2="38.7" stroke="#3a2e1c" stroke-width="1.6"/><line x1="80.0" y1="24.0" x2="80.0" y2="30.0" stroke="#3a2e1c" stroke-width="0.8"/><line x1="104.5" y1="29.7" x2="100.2" y2="38.7" stroke="#3a2e1c" stroke-width="1.6"/><line x1="124.1" y1="45.5" x2="119.4" y2="49.2" stroke="#3a2e1c" stroke-width="0.8"/><line x1="134.8" y1="68.4" x2="125.0" y2="70.4" stroke="#3a2e1c" stroke-width="1.6"/><line x1="134.3" y1="93.5" x2="128.5" y2="92.1" stroke="#3a2e1c" stroke-width="0.8"/><line x1="122.9" y1="116.0" x2="115.2" y2="110.0" stroke="#3a2e1c" stroke-width="1.6"/><text x="50.9" y="104.4" text-anchor="middle" dominant-baseline="central" font-size="8" fill="#2c2416" font-family="sans-serif">0</text><text x="42.8" y="72.1" text-anchor="middle" dominant-baseline="central" font-size="8" fill="#2c2416" font-family="sans-serif">20</text><text x="63.3" y="45.8" text-anchor="middle" dominant-baseline="central" font-size="8" fill="#2c2416" font-family="sans-serif">40</text><text x="96.7" y="45.8" text-anchor="middle" dominant-baseline="central" font-size="8" fill="#2c2416" font-family="sans-serif">60</text><text x="117.2" y="72.1" text-anchor="middle" dominant-baseline="central" font-size="8" fill="#2c2416" font-family="sans-serif">80</text><text x="109.1" y="104.4" text-anchor="middle" dominant-baseline="central" font-size="8" fill="#2c2416" font-family="sans-serif">100</text><line x1="80" y1="80" x2="57" y2="113" stroke="#1a140e" stroke-width="2.2" stroke-linecap="round"/><circle cx="80" cy="80" r="5" fill="#c47b4a" stroke="#3a2c18"/><ellipse cx="58" cy="46" rx="26" ry="12" fill="rgba(255,255,255,0.35)" transform="rotate(-28 58 46)"/></svg>
+                    <svg class="analogue" viewBox="0 0 160 160" aria-hidden="true"><circle cx="80" cy="80" r="78" fill="#2a1c10"/><circle cx="80" cy="80" r="74" fill="#c4a36a"/><circle cx="80" cy="80" r="66" fill="#1a120c"/><circle cx="80" cy="80" r="60" fill="#efe6d2"/><ellipse cx="56" cy="40" rx="26" ry="11" fill="rgba(255,255,255,0.34)" transform="rotate(-26 56 40)"/><circle cx="80" cy="80" r="58" fill="none" stroke="#c4a36a" stroke-width="2"/><line x1="37.1" y1="116.0" x2="44.8" y2="110.0" stroke="#3a2e1c" stroke-width="1.6"/><line x1="25.7" y1="93.5" x2="31.5" y2="92.1" stroke="#3a2e1c" stroke-width="0.8"/><line x1="25.2" y1="68.4" x2="35.0" y2="70.4" stroke="#3a2e1c" stroke-width="1.6"/><line x1="35.9" y1="45.5" x2="40.6" y2="49.2" stroke="#3a2e1c" stroke-width="0.8"/><line x1="55.5" y1="29.7" x2="59.8" y2="38.7" stroke="#3a2e1c" stroke-width="1.6"/><line x1="80.0" y1="24.0" x2="80.0" y2="30.0" stroke="#3a2e1c" stroke-width="0.8"/><line x1="104.5" y1="29.7" x2="100.2" y2="38.7" stroke="#3a2e1c" stroke-width="1.6"/><line x1="124.1" y1="45.5" x2="119.4" y2="49.2" stroke="#3a2e1c" stroke-width="0.8"/><line x1="134.8" y1="68.4" x2="125.0" y2="70.4" stroke="#3a2e1c" stroke-width="1.6"/><line x1="134.3" y1="93.5" x2="128.5" y2="92.1" stroke="#3a2e1c" stroke-width="0.8"/><line x1="122.9" y1="116.0" x2="115.2" y2="110.0" stroke="#3a2e1c" stroke-width="1.6"/><text x="50.9" y="104.4" text-anchor="middle" dominant-baseline="central" font-size="8" fill="#2c2416" font-family="sans-serif">0</text><text x="42.8" y="72.1" text-anchor="middle" dominant-baseline="central" font-size="8" fill="#2c2416" font-family="sans-serif">20</text><text x="63.3" y="45.8" text-anchor="middle" dominant-baseline="central" font-size="8" fill="#2c2416" font-family="sans-serif">40</text><text x="96.7" y="45.8" text-anchor="middle" dominant-baseline="central" font-size="8" fill="#2c2416" font-family="sans-serif">60</text><text x="117.2" y="72.1" text-anchor="middle" dominant-baseline="central" font-size="8" fill="#2c2416" font-family="sans-serif">80</text><text x="109.1" y="104.4" text-anchor="middle" dominant-baseline="central" font-size="8" fill="#2c2416" font-family="sans-serif">100</text><line x1="80" y1="80" x2="57" y2="113" stroke="#1a140e" stroke-width="2.2" stroke-linecap="round"/><circle cx="80" cy="80" r="5" fill="#c47b4a" stroke="#3a2c18"/><ellipse cx="58" cy="46" rx="26" ry="12" fill="rgba(255,255,255,0.35)" transform="rotate(-28 58 46)"/></svg>
                     <b id="gauge-efficiency">UNKNOWN</b>
                   </section>
                 </div>
@@ -2175,6 +2263,7 @@
           const zState = status && status.zState ? String(status.zState).toUpperCase() : "UNKNOWN";
           text(byId("ring-z"), zState);
           text(byId("totality-state-value"), status && status.status ? String(status.status).toUpperCase() : "UNKNOWN");
+          text(byId("core-side-status"), status && status.status ? String(status.status).toUpperCase() : "UNKNOWN");
           const predictor = byId("predictor-state");
           const line = byId("predictor-line");
           if (!state.tasksLoaded) {

diff --git a/typescript/docs/operators/hud.md b/typescript/docs/operators/hud.md
@@ -21,8 +21,10 @@ sub-plate reads `OPTIMIZED TOTALITY STATE`. The live reading under it is
 `status.status`, or `UNKNOWN` until status arrives. Smoked glass with amber
 corner brackets sits over a photographic dusk coast
 (`src/mcp/assets/coast-dusk.jpg`, inlined so the widget stays one file).
-Empty meters still draw their chrome: ring ticks, chart grids, parked dial
-needles, and an unlabelled tactical node sketch. The reading stays `UNKNOWN`.
+Empty meters still draw their chrome: thick segmented ring dials, a large
+bee-and-tree medallion, chart grids, parked dial needles, vertical Core
+Analyzer channels, and an unlabelled tactical node sketch. The reading stays
+`UNKNOWN`.
 On a 1920×1080 desktop the brand sits inside the left of the frame, the chips
 sit inside the right, and the nav is one row under the title so it does not
 cover either. Desktop, tablet, and phone collapse the same regions; they do

diff --git a/typescript/docs/ROADMAP.md b/typescript/docs/ROADMAP.md
@@ -4,8 +4,8 @@
 
 The same operator widget is now the JARVIS TOTALITY Console 02 frame: a
 dark weathered bronze bezel with shaded rivets, a photographic dusk coast under
-smoked glass, a square bee-and-tree medallion, and cream-dial load gauges
-flanking the Core Analyzer. Gauges without a Jarvis meter stay UNKNOWN with the
+smoked glass, a large bee-and-tree medallion with segmented rings, and
+cream-dial load gauges flanking a vertical Core Analyzer. Gauges without a Jarvis meter stay UNKNOWN with the
 needle parked. Instrument chrome (grids, low-opacity tick tracks, parked
 needles, an unlabelled tactical map) is drawn even when the reading is UNKNOWN. `GET /hud` and `GET /api/v1/hud/snapshot`
 are loopback-only and read-only. Screenshots: `docs/screenshots/`.
